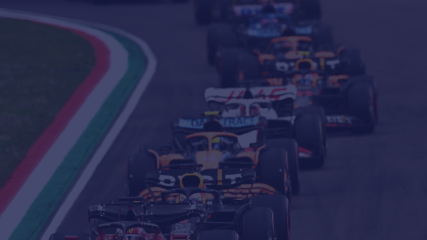
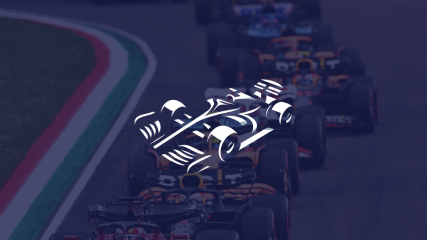
fix card

Changed region(s): [[0.3044, 0.3208, 0.7002, 0.7292]]

diff --git a/src/components/ProjectSection.tsx b/src/components/ProjectSection.tsx
@@ -58,7 +58,7 @@ const ProjectSection = () => {
           </div>
           <div className="project-card f1">
             <img src="/F1-CARD.png" alt="" />
-            <a className="card-button progress">In Progress</a>
+            <a className="card-button">Discover more</a>
           </div>
           <div className="project-card jemib">
             <img src="/JEMIB-CARD.png" alt="" />
